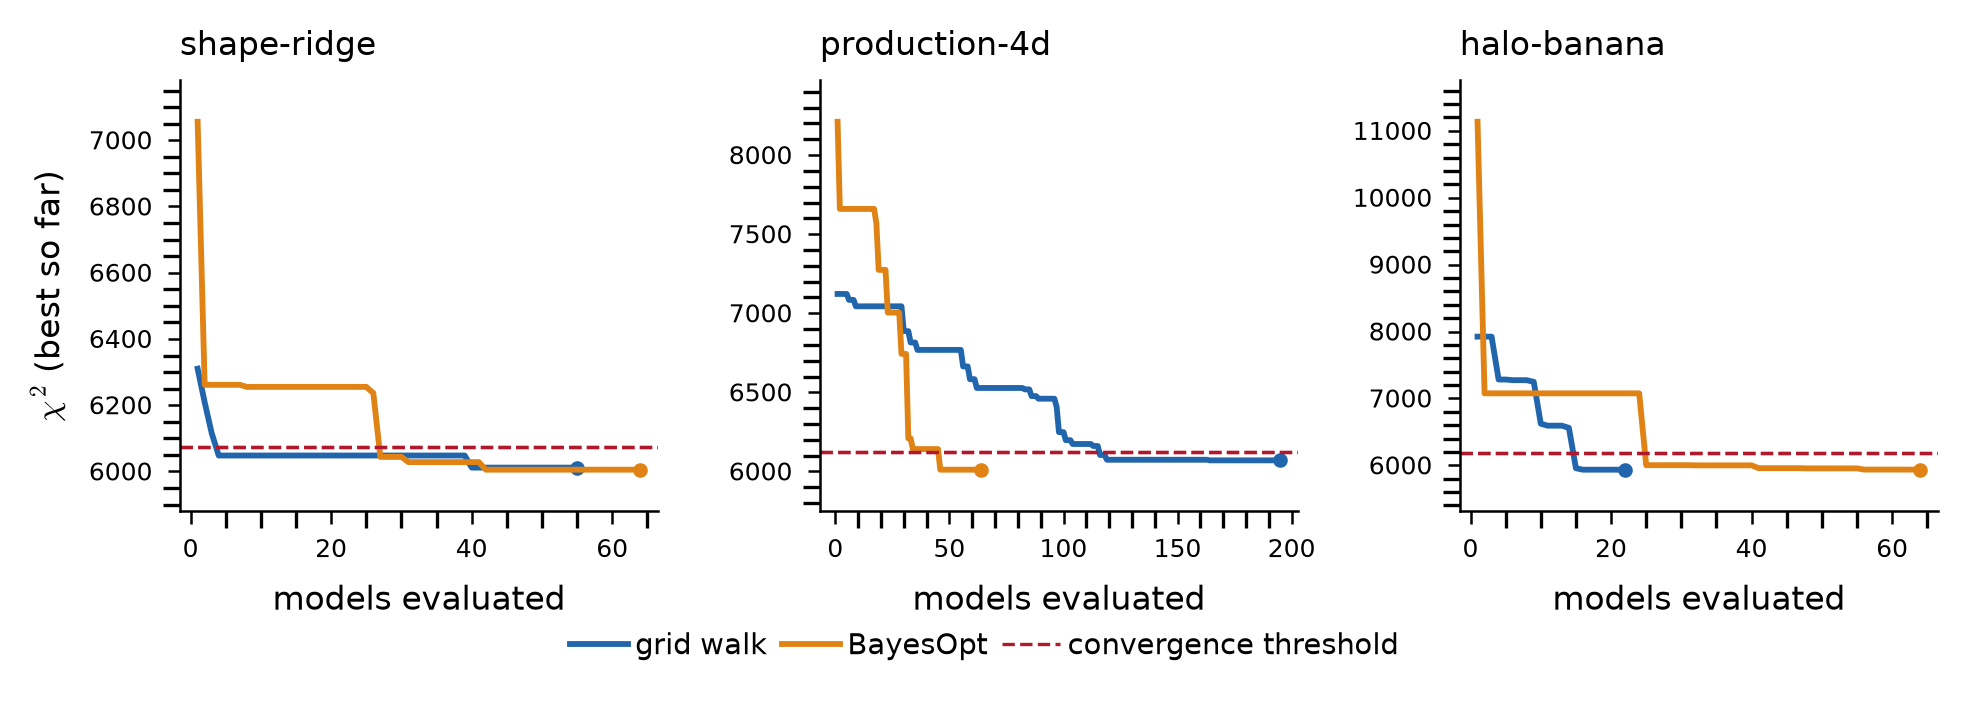
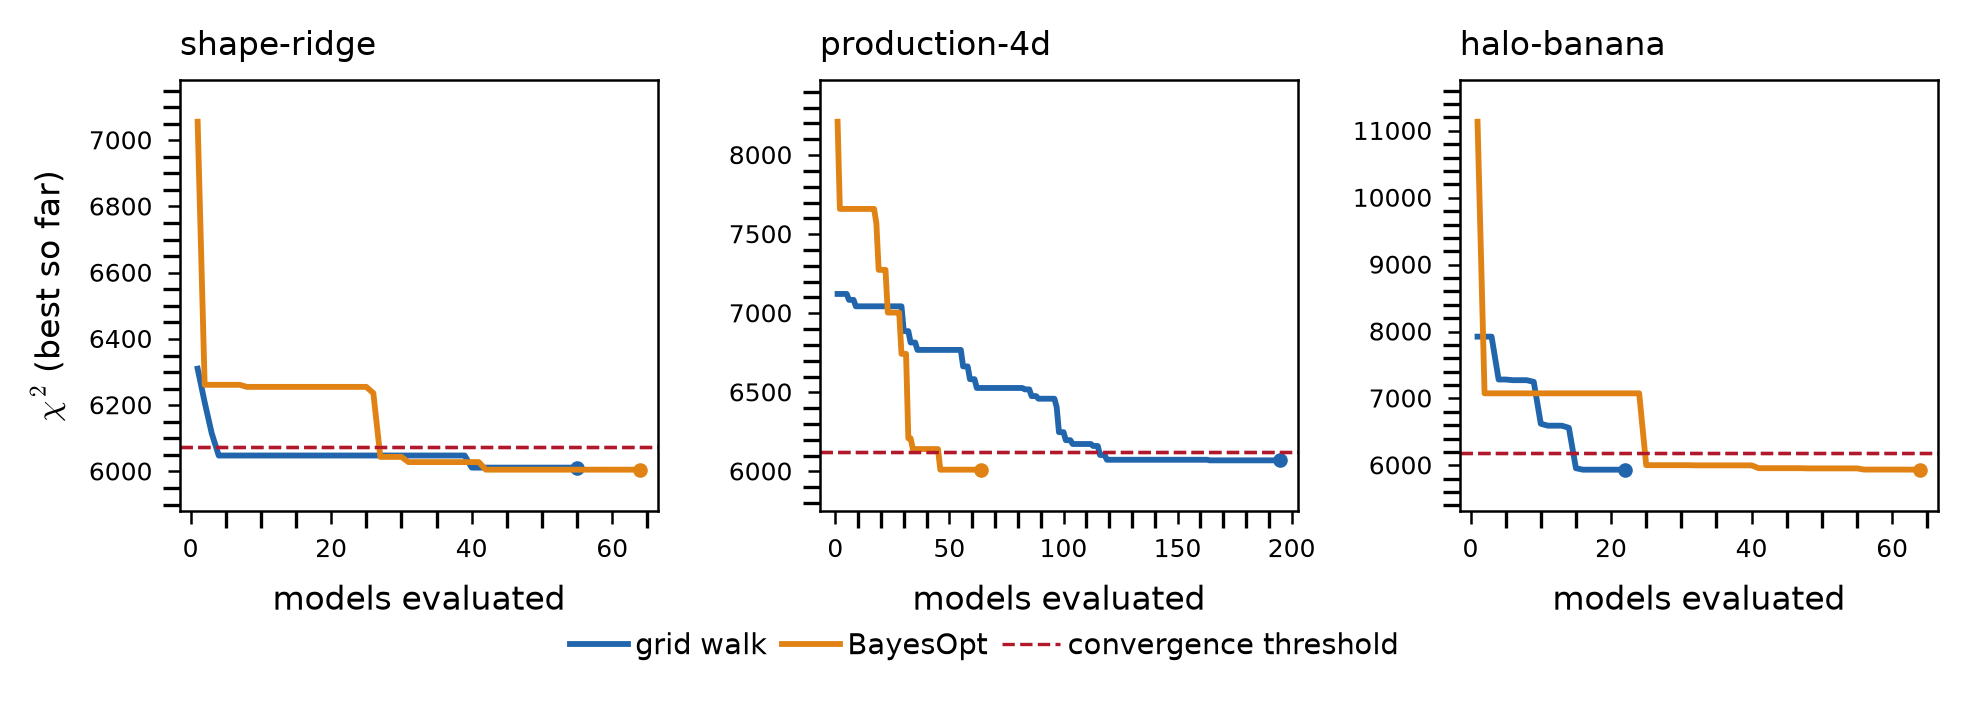
fix(figures): boxed frames on all four spines (user preference); regenerate at 300 dpi

Changed region(s): [[0.7439, 0.0922, 0.9919, 0.1229], [0.093, 0.0922, 0.341, 0.1229], [0.4339, 0.0922, 0.6509, 0.1229]]

diff --git a/dev_tests/plot_surface_comparison.py b/dev_tests/plot_surface_comparison.py
@@ -20,7 +20,7 @@ sys.path.insert(0, "/Users/pesmith/.opencode/skills/figure-style")
 import kernel  # noqa: E402
 import chi2_landscapes as L  # noqa: E402
 
-kernel.apply_figure_style(sizes=(8, 7, 6))
+kernel.apply_figure_style(frame="boxed", sizes=(8, 7, 6))
 CMAP_TIME = "viridis"  # shared semantics: dark=early, bright=late
 
 HERE = os.path.dirname(os.path.abspath(__file__))
@@ -111,7 +111,6 @@ def trajectory_fig(land):
                 ax.set_ylabel(DISPLAY[land.names[ib]])
             ax.set_xlim(lims[r][0], lims[r][1])
             ax.set_ylim(lims[r][2], lims[r][3])
-            kernel.set_frame(ax)
             ax.tick_params(direction="out", top=False, right=False, labelsize=6, which="both")
             ax.set_xlabel(DISPLAY[land.names[ia]], labelpad=9)
             if c == 0:
@@ -184,7 +183,6 @@ def convergence_fig():
         ax.set_xlabel("models evaluated")
         ax.margins(x=0.04, y=0.12)
         ax.tick_params(direction="out", top=False, right=False, labelsize=6, which="both")
-        kernel.set_frame(ax)
     axes[0].set_ylabel("$\\chi^2$ (best so far)")
     handles = [
         Line2D([], [], color="#2166ac", lw=1.4, label="grid walk"),
